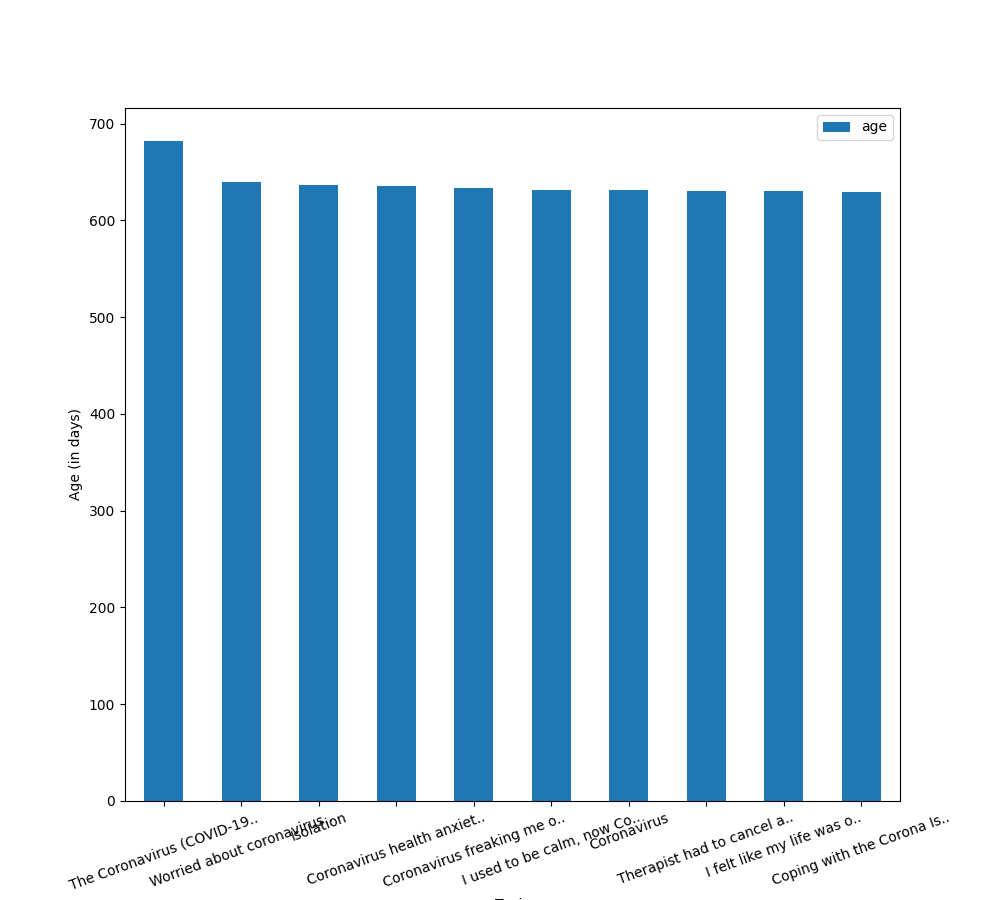
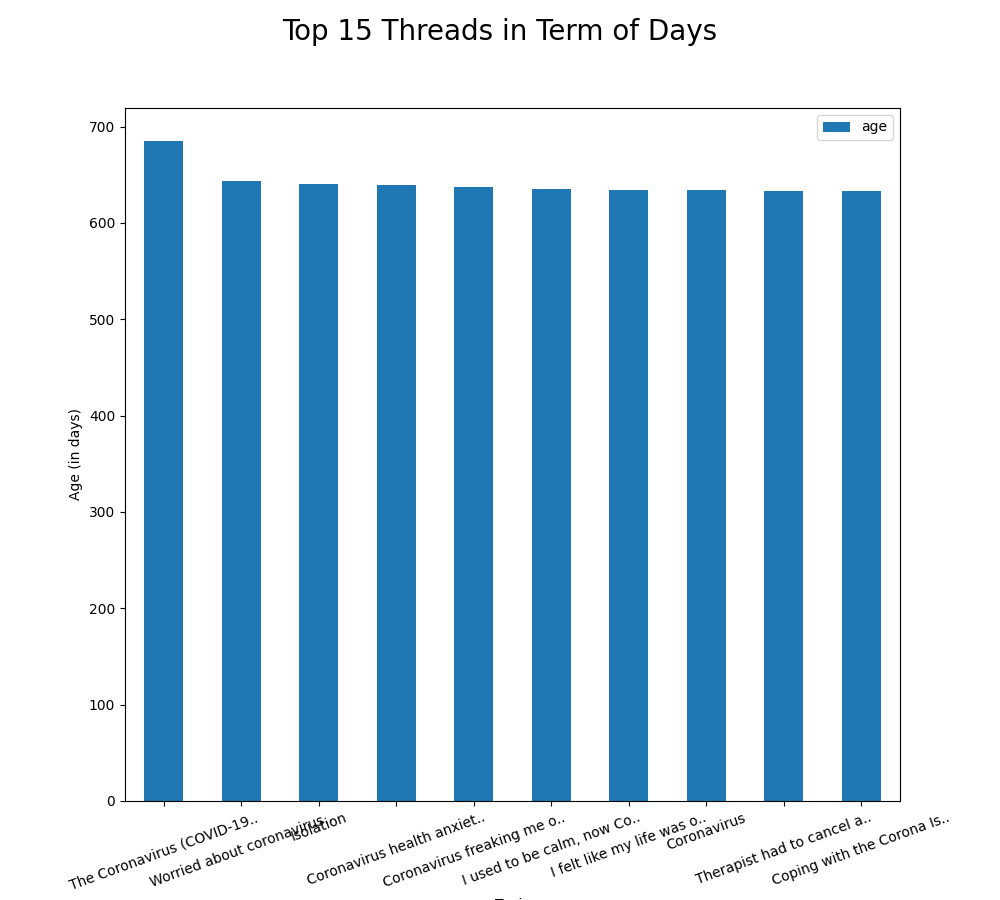
Finalizing assignment
Updated README.md

diff --git a/helpers/progress_handler.py b/helpers/progress_handler.py
@@ -15,7 +15,7 @@ class ProgressHandler:
         show_progress(elapsed=0, total=100):
             Shows scraping progress in a formatted manner.
         reset_progress():
-            Nullifies the attributes in order to receive a new progress.
+            Nullifies the attributes in order to receive new progress.
     """
 
     __last_accessed = None
@@ -56,7 +56,7 @@ class ProgressHandler:
     @staticmethod
     def reset_progress():
         """
-        Nullifies the attributes in order to receive a new progress.
+        Nullifies the attributes in order to receive new progress.
         """
 
         ProgressHandler.__last_accessed = None

diff --git a/main.py b/main.py
@@ -26,7 +26,7 @@ print('--------------------------------------------------')
 # PlotsProvider.plot_view_with_replies_relation(fast_fetch=True)
 # PlotsProvider.plot_top_15_thread_creators(fast_fetch=True)
 # PlotsProvider.plot_locked_sticky_threads(fast_fetch=True)
-# PlotsProvider.plot_top_15_oldest_threads(fast_fetch=True)
+PlotsProvider.plot_top_15_oldest_threads(fast_fetch=True)
 #
 # PlotsProvider.plot_top_15_repliers(fast_fetch=True, fast_fetch_threads=True)
 # PlotsProvider.plot_top_15_messages(fast_fetch=True, fast_fetch_threads=True)

diff --git a/README.md b/README.md
@@ -20,7 +20,7 @@ Install pandas
 `pip install pandas`
 
 install matplotlib
-`pip install matplotlib.pyplot`
+`pip install matplotlib`
 
 Install scipy
 `pip install scipy`
@@ -42,17 +42,23 @@ No further configuration is required.
 Project Structure
 ------------
 
-    ├── README.md                 <- The top-level README for developers using this project.
+    ├── README.md                   <- The top-level README for developers using this project.
     │
     ├── helpers
-    │   ├── date_time_handler     <- Set of static methods that aid some time manipulations
-    │   └── progress_handler      <- Set of static methods that aid some progress manipulations
+    │   ├── date_time_handler       <- Set of static methods that aid some time manipulations.
+    │   └── progress_handler        <- Set of static methods that aid some progress manipulations.
     │
+    ├── images                      <- Storing readme image files.
+    │   
     ├── providers
-    │   ├── plots_provider        <- Static methods which perform the plotting functionality
-    │   └── forum_scraper         <- Static methods which perform the scraping functionality
+    │   ├── plots_provider          <- Static methods which perform the plotting functionality.
+    │   └── forum_scraper           <- Static methods which perform the scraping functionality.
     │
-    └── main                      <- Acts as a sandbox for methods invocation
+    ├── cached_threads.csv          <- Storing cached threads from a previous state.
+    │
+    ├── cached_threads_details.csv  <- Storing cached thread's details from a previous state.
+    │   
+    └── main                        <- Acts as a sandbox for methods invocation.
 
 Report / Findings
 ------------
